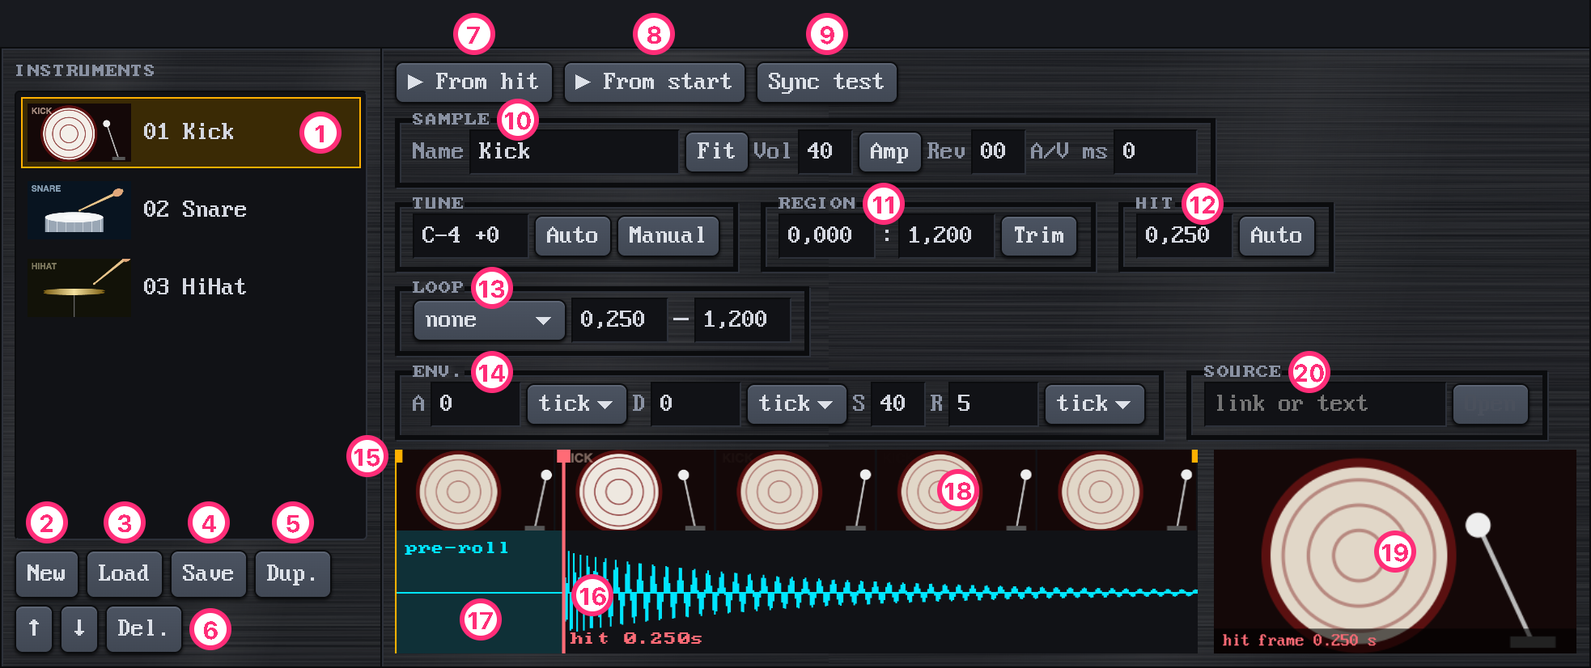
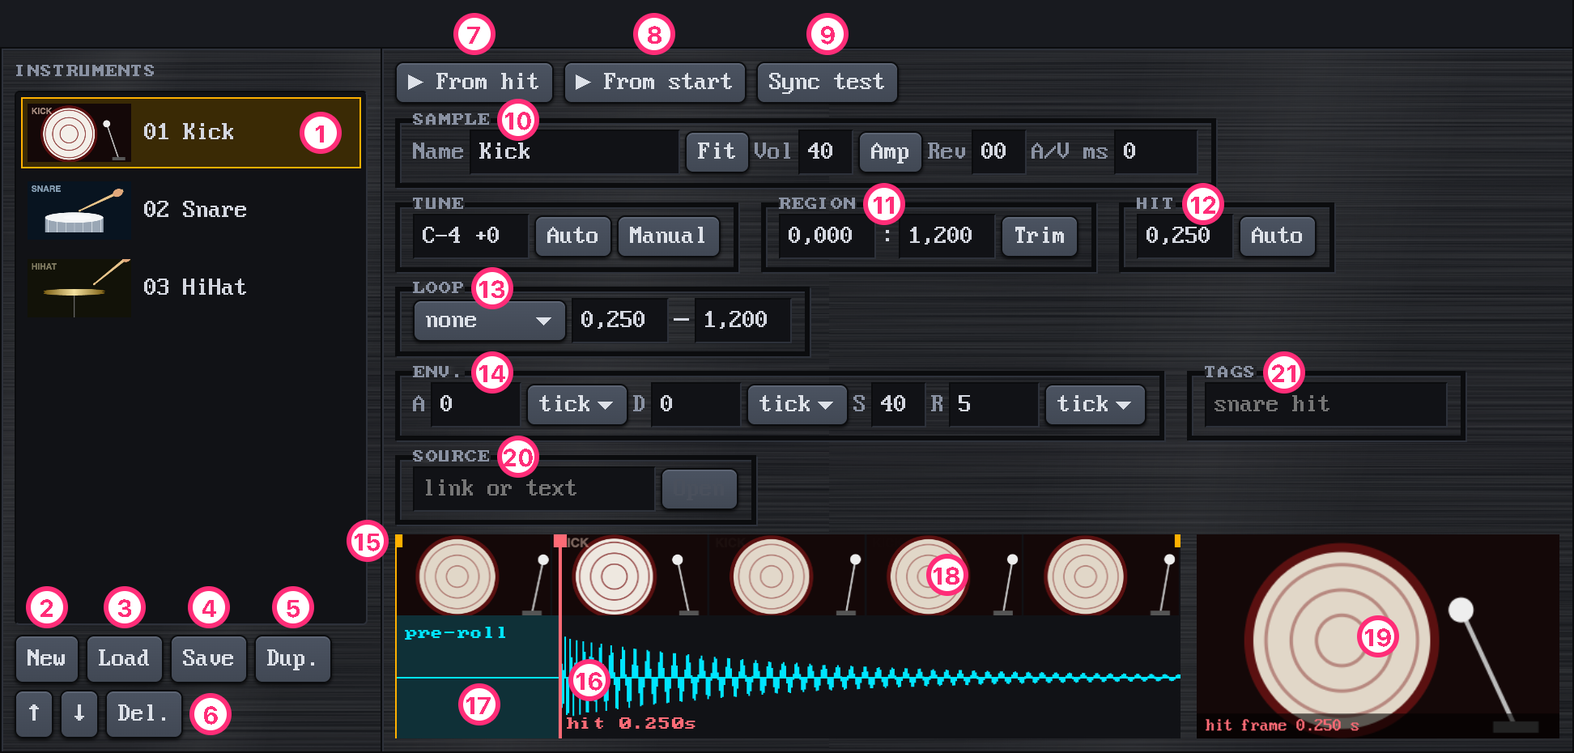
Tags: what an instrument's sound is, to find it by
TURD1 gets an optional tags= field (snare|hit|crash): lowercase letters
and digits, words joined by dashes. Tags in the instrument panel reads
them as people type them ('#Snare hit, crash'); MCP set_instrument takes
them, list_instruments shows them. Like the name, they stay when the
video is replaced. Nothing asks for them.

diff --git a/src/mcp.js b/src/mcp.js
@@ -16,6 +16,8 @@ const hexArg = (v, what) => typeof v === 'string' && /^[0-9A-Fa-f]{2}$/.test(v) 
 const patArg = v => { const p = hexArg(v, 'pattern'); return song.patterns[p] ? p : fail(`pattern ${hex2(p)} doesn't exist (there are 00–${hex2(song.patterns.length - 1)})`); };
 const rowArg = (v, pi, what = 'row') => { const r = hexArg(v, what), N = song.patterns[pi].rows.length; return r < N ? r : fail(`${what} ${hex2(r)} doesn't exist (pattern ${hex2(pi)}: 00–${hex2(N - 1)})`); };
 const chArg = v => Number.isInteger(v) && v >= 1 && v <= nch() ? v - 1 : fail(`channel must be an integer 1–${nch()} (the song has ${nch()} channels), got: ${JSON.stringify(v)}`);
+// tags: a list as given (checked with the instrument), or a text read as the panel reads it ('#snare hit')
+const checkedTags = v => Array.isArray(v) ? v.map(String) : PTFormat.tagsFrom(v ?? '');
 const instArg = v => { const i = hexArg(v, 'instrument'); return instruments[i] && i > 0 ? i : fail(`instrument ${hex2(i)} doesn't exist (there are 01–${hex2(instruments.length - 1)})`); };
 const fieldArg = (kind, v) => { try { return PTFormat.cellField(kind, v); } catch (e) { fail(e.message); } };
 const chList = v => v == null ? [...Array(nch()).keys()] : Array.isArray(v) && v.length ? v.map(chArg) : fail('channels must be a list of channels, e.g. [1, 3]');
@@ -67,7 +69,7 @@ const MCP_TOOLS = {
       'patterns:', ...song.patterns.map((P, k) => `  ${hex2(k)}: ${P.rows.length} rows, ${P.rows.reduce((a, r) => a + r.filter(c => !same(c, emptyCell())).length, 0)} filled cells`)].join('\n');
   },
   list_instruments() {
-    return instruments.slice(1).map((I, k) => `${hex2(k + 1)} ${I.name || '(unnamed)'} · base ${noteName(I.baseNote)} · volume ${hex2(I.vol)} · reverb ${hex2(I.reverb)} · region ${fmtTime(I.start)}–${fmtTime(I.end)} s · hit ${fmtTime(I.hit)} s · a=${envTxt(I.A)} d=${envTxt(I.D)} s=${hex2(I.S)} r=${envTxt(I.R)} · ${I.loop !== 'none' ? `${I.loop} loop ${fmtTime(I.loopStart)}–${fmtTime(I.loopEnd)} s` : 'no loop'} · amp ${I.amp.length ? PTFormat.ampStr(I.amp) + ' (start-end %, in order)' : 'none'} · focus ${I.focus.length ? PTFormat.focusStr(I.focus) : 'middle'}${I.source ? ` · source ${I.source}` : ''}`).join('\n') || 'no instruments';
+    return instruments.slice(1).map((I, k) => `${hex2(k + 1)} ${I.name || '(unnamed)'} · base ${noteName(I.baseNote)} · volume ${hex2(I.vol)} · reverb ${hex2(I.reverb)} · region ${fmtTime(I.start)}–${fmtTime(I.end)} s · hit ${fmtTime(I.hit)} s · a=${envTxt(I.A)} d=${envTxt(I.D)} s=${hex2(I.S)} r=${envTxt(I.R)} · ${I.loop !== 'none' ? `${I.loop} loop ${fmtTime(I.loopStart)}–${fmtTime(I.loopEnd)} s` : 'no loop'} · amp ${I.amp.length ? PTFormat.ampStr(I.amp) + ' (start-end %, in order)' : 'none'} · focus ${I.focus.length ? PTFormat.focusStr(I.focus) : 'middle'}${I.tags.length ? ` · tags ${I.tags.join(' ')}` : ''}${I.source ? ` · source ${I.source}` : ''}`).join('\n') || 'no instruments';
   },
   view_rows(a) {
     const pi = patArg(a.pattern), [r0, r1] = rowRange(a, pi), P = song.patterns[pi];
@@ -166,10 +168,10 @@ const MCP_TOOLS = {
   },
   set_instrument(a) {
     const idx = instArg(a.instrument), f = {}, map = { name: 'name', base_note: 'base', volume: 'vol', reverb: 'rev', attack: 'a', decay: 'd', sustain: 's', release: 'r', loop: 'loop', loop_start: 'ls', loop_end: 'le', fine: 'fine',
-      region_start: 'start', region_end: 'end', hit: 'hit', av_offset: 'av', focus: 'focus', source: 'src' };
+      region_start: 'start', region_end: 'end', hit: 'hit', av_offset: 'av', focus: 'focus', source: 'src', tags: 'tags' };
     for (const [k, key] of Object.entries(map)) if (k in a) {
       if (k === 'loop' && !PTFormat.LOOP_MODES.includes(a.loop)) fail(`loop must be none, forward or pingpong (got '${a.loop}')`);
-      try { f[{ name: 'name', base: 'baseNote', fine: 'fine', vol: 'vol', rev: 'reverb', a: 'A', d: 'D', s: 'S', r: 'R', loop: 'loop', ls: 'loopStart', le: 'loopEnd', start: 'start', end: 'end', hit: 'hit', av: 'avOffset', focus: 'focus', src: 'source' }[key]] = k === 'loop' ? a.loop : k === 'name' || k === 'source' ? String(a[k]).trim() : k === 'focus' && a.focus === '' ? [] : PTFormat.field(key, a[k]); }
+      try { f[{ name: 'name', base: 'baseNote', fine: 'fine', vol: 'vol', rev: 'reverb', a: 'A', d: 'D', s: 'S', r: 'R', loop: 'loop', ls: 'loopStart', le: 'loopEnd', start: 'start', end: 'end', hit: 'hit', av: 'avOffset', focus: 'focus', src: 'source', tags: 'tags' }[key]] = k === 'loop' ? a.loop : k === 'tags' ? checkedTags(a.tags) : k === 'name' || k === 'source' ? String(a[k]).trim() : k === 'focus' && a.focus === '' ? [] : PTFormat.field(key, a[k]); }
       catch (e) { fail(e.message.replace(/^TURD1\b[^:]*:\s*/, '')); } // drop the parser's line prefix, whatever its wording
     }
     if (!Object.keys(f).length) fail(`nothing to change (${Object.keys(map).join(', ')})`);
@@ -256,7 +258,7 @@ const MCP_TOOLS = {
     const i = instArg(a.instrument), focus = focusArg(a), f = await fileArg(a.file);
     const { fromMetadata, noSound } = await replaceVideo(i, f, progress, a.region ? { ...a.region, focus } : null), I = instruments[i];
     return done(true, `instrument ${hex2(i)}: video → ${f.name}; ` + (fromMetadata ? 'all its settings from the video\'s metadata (it was saved by PoopTracker)'
-      : `name, base note, finetune, volume, reverb, envelope and loop mode kept; region = ${a.region ? 'the piece' : 'the whole video'} (${I.start.toFixed(3)}–${I.end.toFixed(3)} s), hit found automatically at ${I.hit.toFixed(3)} s`) + (noSound ? NO_SOUND : ''));
+      : `name, tags, base note, finetune, volume, reverb, envelope and loop mode kept; region = ${a.region ? 'the piece' : 'the whole video'} (${I.start.toFixed(3)}–${I.end.toFixed(3)} s), hit found automatically at ${I.hit.toFixed(3)} s`) + (noSound ? NO_SOUND : ''));
   },
   async open_song(a) {
     const f = await fileArg(a.file), r = await opening(`MCP · opening ${f.name}`, p => readSong(f, p));

diff --git a/index.html b/index.html
@@ -257,7 +257,7 @@ header,.card,#statusBar,dialog,fieldset legend{background:var(--metalHair) fixed
   <section class="card" id="instCard">
     <h2>Instruments</h2>
     <div id="instList" class="well"></div>
-    <div class="btnRow"><button id="iNew" title="Add an empty instrument at the end of the list; Load then gives it a video">New</button><button id="bLoad" title="Load a video into the selected instrument: it keeps how it sounds (name, base note, finetune, volume, reverb, envelope, loop mode); region and hit are found in the new video. A video saved with Save brings all its own settings instead. Or drop the video on the instrument in the list.">Load</button><input id="file" type="file" accept="video/*" hidden>
+    <div class="btnRow"><button id="iNew" title="Add an empty instrument at the end of the list; Load then gives it a video">New</button><button id="bLoad" title="Load a video into the selected instrument: it keeps how it sounds (name, tags, base note, finetune, volume, reverb, envelope, loop mode); region and hit are found in the new video. A video saved with Save brings all its own settings instead. Or drop the video on the instrument in the list.">Load</button><input id="file" type="file" accept="video/*" hidden>
       <button id="bVidSave" title="Save the video with this instrument's settings (hit, loop, ADSR…) in its metadata; dropped on the tracker, it arrives as a ready instrument. The video isn't re-encoded. MP4/MOV only.">Save</button>
       <button id="bSplit" title="Duplicate: a new instrument from the same video with the same settings; then change its region">Dup.</button>
       <button id="iUp" title="Move up" aria-label="Move instrument up">↑</button><button id="iDown" title="Move down" aria-label="Move instrument down">↓</button>
@@ -296,6 +296,9 @@ header,.card,#statusBar,dialog,fieldset legend{background:var(--metalHair) fixed
       <label title="Decay: how long it then takes to fall from full volume to the sustain level (S). Its unit: tick follows the tempo (1 tick = 2.5/BPM s), ms stays fixed.">D<input id="iD" type="number" min="0" style="width:56px"></label><select id="iDu" aria-label="D unit"><option value="t">tick</option><option value="ms">ms</option></select>
       <label title="Sustain: the level the note stays at after the decay, until its key-off (===) or until you let go of the key. Hex 00–40 like Vol (40 = full).">S<input id="iS" maxlength="2" style="width:34px" spellcheck="false"></label>
       <label title="Release: how long the note takes to fade to silence after its key-off (===) or after you let go of the key. Its unit: tick follows the tempo (1 tick = 2.5/BPM s), ms stays fixed.">R<input id="iR" type="number" min="0" style="width:56px"></label><select id="iRu" aria-label="R unit"><option value="t">tick</option><option value="ms">ms</option></select>
+    </fieldset>
+    <fieldset><legend>Tags</legend>
+      <input id="iTags" style="width:150px" spellcheck="false" placeholder="snare hit" aria-label="Tags" title="What the sound is, to find it by: words split by spaces (snare hit crash; a # in front is fine). Lowercase letters and digits, words joined by dashes (big-room). They travel with the video">
     </fieldset>
     <fieldset><legend>Source</legend>
       <input id="iSrc" style="width:150px" spellcheck="false" placeholder="link or text" aria-label="Source" title="Where the video comes from: a link (a YouTube one with ?t= for the second the piece starts at) or any text. It travels with the video. A piece cut on the bench from a video downloaded with yt-dlp --embed-metadata gets it by itself"><button id="bSrc" title="Open the source link in a new tab">Open</button>
@@ -394,8 +397,8 @@ header,.card,#statusBar,dialog,fieldset legend{background:var(--metalHair) fixed
 {
   "imports": {
     "./src/autosave.js": "./src/autosave.js?v=a129a531b9",
-    "./src/core/commands.js": "./src/core/commands.js?v=ec4f8d806a",
-    "./src/core/instrument.js": "./src/core/instrument.js?v=ed27e28192",
+    "./src/core/commands.js": "./src/core/commands.js?v=34bff0abfb",
+    "./src/core/instrument.js": "./src/core/instrument.js?v=46b286c212",
     "./src/core/song.js": "./src/core/song.js?v=6eaf9b5a3d",
     "./src/demo.js": "./src/demo.js?v=7118276168",
     "./src/engine/audio.js": "./src/engine/audio.js?v=67c45774a2",
@@ -404,16 +407,16 @@ header,.card,#statusBar,dialog,fieldset legend{background:var(--metalHair) fixed
     "./src/frames.js": "./src/frames.js?v=a0e990fd67",
     "./src/io.js": "./src/io.js?v=8d4397fa56",
     "./src/main.js": "./src/main.js?v=722ebfda5f",
-    "./src/mcp.js": "./src/mcp.js?v=6b338ed893",
+    "./src/mcp.js": "./src/mcp.js?v=f15126e74b",
     "./src/midi.js": "./src/midi.js?v=4aea5cf9e5",
     "./src/mp4.js": "./src/mp4.js?v=d5ff6a34c9",
     "./src/mp4cut.js": "./src/mp4cut.js?v=e114c82bfe",
-    "./src/ptformat.js": "./src/ptformat.js?v=1baee3c7b5",
+    "./src/ptformat.js": "./src/ptformat.js?v=dc89fede4b",
     "./src/ui/bench.js": "./src/ui/bench.js?v=ada1cb79cf",
     "./src/ui/bug.js": "./src/ui/bug.js?v=d6d26b5cd5",
     "./src/ui/common.js": "./src/ui/common.js?v=df7abd3b77",
     "./src/ui/files.js": "./src/ui/files.js?v=1926859382",
-    "./src/ui/instrumentPanel.js": "./src/ui/instrumentPanel.js?v=ca39a901e6",
+    "./src/ui/instrumentPanel.js": "./src/ui/instrumentPanel.js?v=5ec77526ba",
     "./src/ui/opening.js": "./src/ui/opening.js?v=8ad2e10dba",
     "./src/ui/output.js": "./src/ui/output.js?v=be938372ad",
     "./src/ui/palette.js": "./src/ui/palette.js?v=d8faf9d440",

diff --git a/src/ptformat.js b/src/ptformat.js
@@ -33,6 +33,10 @@ const focusStr = keys => keys.map(k => `${t3(k.t)}:${k.x.toFixed(3)},${k.y.toFix
 // It changes the sample itself (the video file stays as it is): 200-200 twice is not 400-400 once.
 const MAX_AMP = 200, MAX_AMP_STEPS = 100;
 const MAX_SOURCE = 500;
+// tags: what the sound is, to find it by (snare, hit, crash): lowercase letters and digits, words joined by dashes,
+// written joined by '|'. tagsFrom reads them as people type them: '#Snare #hit, crash' → ['snare', 'hit', 'crash']
+const MAX_TAGS = 16, MAX_TAG = 24, TAG = /^[\p{Ll}\p{Lo}\p{N}]+(-[\p{Ll}\p{Lo}\p{N}]+)*$/u;
+const tagsFrom = text => [...new Set(String(text).split(/[\s,|]+/).map(t => t.replace(/^#+/, '').toLowerCase()).filter(Boolean))];
 const ampStr = steps => steps.map(s => `${s.a}-${s.b}`).join('|');
 
 function format(I, video) {
@@ -44,6 +48,7 @@ function format(I, video) {
     'loop=' + I.loop, 'ls=' + t3(I.loopStart), 'le=' + t3(I.loopEnd), 'av=' + Math.round(I.avOffset));
   if (I.amp?.length) f.push('amp=' + ampStr(I.amp));
   if (I.focus?.length) f.push('focus=' + focusStr(I.focus));
+  if (I.tags?.length) f.push('tags=' + I.tags.join('|'));
   if (I.source) f.push('src=' + esc(I.source));
   return f.join(';');
 }
@@ -89,9 +94,10 @@ const PARSE = {
   focus,
   // where the video comes from: a link (a YouTube one with the second the piece starts at) or any text
   src: (k, v) => unesc(v),
+  tags: (k, v) => { const t = v.split('|').map(s => s.trim()), e = checkTags(t); if (e) throw new Error(`${VERSION} line: ${e}`); return t; },
 };
 const KEYS = { name: 'name', video: 'video', start: 'start', end: 'end', hit: 'hit', base: 'baseNote', fine: 'fine', vol: 'vol', rev: 'reverb',
-  a: 'A', d: 'D', s: 'S', r: 'R', loop: 'loop', ls: 'loopStart', le: 'loopEnd', av: 'avOffset', amp: 'amp', focus: 'focus', src: 'source' };
+  a: 'A', d: 'D', s: 'S', r: 'R', loop: 'loop', ls: 'loopStart', le: 'loopEnd', av: 'avOffset', amp: 'amp', focus: 'focus', src: 'source', tags: 'tags' };
 const REQUIRED = ['name', 'start', 'end', 'hit', 'base'];
 
 function parse(line) {
@@ -108,7 +114,7 @@ function parse(line) {
   }
   for (const k of REQUIRED) if (!(k in kv)) throw new Error(`${VERSION} line: field '${k}' is missing`);
   const I = { fine: 0, vol: 64, reverb: 0, A: { v: 0, u: 't' }, D: { v: 0, u: 't' }, S: 64, R: { v: 0, u: 't' }, loop: 'none',
-    loopStart: kv.hit, loopEnd: kv.end, avOffset: 0, amp: [], focus: [], source: '' };
+    loopStart: kv.hit, loopEnd: kv.end, avOffset: 0, amp: [], focus: [], source: '', tags: [] };
   for (const k in kv) I[KEYS[k]] = kv[k];
   const e = checkInstrument(I);
   if (e) throw new Error(`${VERSION} line: ${e}`);
@@ -139,12 +145,21 @@ function checkInstrument(I) {
   if (!Number.isInteger(I.avOffset)) return `A/V offset '${I.avOffset}' is invalid (milliseconds, integer)`;
   const ae = checkAmp(I.amp); if (ae) return ae;
   const fe = checkFocus(I.focus); if (fe) return fe;
+  const te = checkTags(I.tags); if (te) return te;
   if (typeof I.source !== 'string' || I.source.length > MAX_SOURCE || /[\r\n]/.test(I.source)) return `source must be at most ${MAX_SOURCE} characters, on one line`;
   if (I.start >= I.end) return `region start (${t3(I.start)}) must be before region end (${t3(I.end)})`;
   if (I.hit < I.start || I.hit > I.end) return `hit point (${t3(I.hit)}) must be inside the region (${t3(I.start)}–${t3(I.end)})`;
   if (I.loop !== 'none' && (I.loopStart < I.start || I.loopEnd > I.end || I.loopStart >= I.loopEnd))
     return `loop (${t3(I.loopStart)}–${t3(I.loopEnd)}) must be inside the region, with loop start before loop end (region ${t3(I.start)}–${t3(I.end)})`;
   if (I.loop !== 'none' && I.loopStart < I.hit) return `loop start (${t3(I.loopStart)}) can't be before the hit point (${t3(I.hit)})`;
+  return null;
+}
+function checkTags(tags) {
+  if (!Array.isArray(tags)) return 'tags must be a list of words';
+  if (tags.length > MAX_TAGS) return `there are ${tags.length} tags; at most ${MAX_TAGS}`;
+  for (const t of tags)
+    if (typeof t !== 'string' || t.length > MAX_TAG || !TAG.test(t)) return `tag '${t}' is invalid (lowercase letters and digits, words joined by dashes, at most ${MAX_TAG} characters, e.g. snare or big-room)`;
+  if (new Set(tags).size !== tags.length) return 'a tag is written twice';
   return null;
 }
 function checkAmp(steps) {
@@ -487,7 +502,7 @@ function mp4WriteTag(b, value) {
   return out;
 }
 
-export const PTFormat = { VERSION, LOOP_MODES, format, focusStr, ampStr, MAX_AMP, MAX_AMP_STEPS, parse, noteStr, noteNum, ENV_MAX, KEYOFF, MAX_CHANNELS, FXCH, FX_ALLOWED, E_ALLOWED,
+export const PTFormat = { VERSION, LOOP_MODES, format, tagsFrom, checkTags, focusStr, ampStr, MAX_AMP, MAX_AMP_STEPS, parse, noteStr, noteNum, ENV_MAX, KEYOFF, MAX_CHANNELS, FXCH, FX_ALLOWED, E_ALLOWED,
   checkInstrument, checkFocus, checkCell, checkSong, checkOrder, checkRows, checkChannel, formatSong, parseSong, zipStore, unzip, crc32,
   cellField, cellStr, mp4ReadTag, mp4WriteTag, field: (k, v) => PARSE[k](k, String(v).trim()) };
 export default PTFormat;

diff --git a/src/ui/instrumentPanel.js b/src/ui/instrumentPanel.js
@@ -1,5 +1,6 @@
 // The instrument panel: the list of instruments, their settings and the waveform editor.
 // Sliders and waveform drags preview live and become ONE command when released.
+import PTFormat from '../ptformat.js';
 import { clamp, hex2, noteName, round3, copy } from '../util.js';
 import { song, instruments } from '../core/song.js';
 import { makeInstrument, videoFrame, frameAt, focusAt, hitPos, sliceRegion, tickDur, detectHit, detectPitch, tuneFor, noteOfHz, fitFor, loops } from '../core/instrument.js';
@@ -28,7 +29,7 @@ export function selectInst(idx) {
   ['A', 'D', 'R'].forEach(p => { $('#i' + p).value = I[p].v; $('#i' + p + 'u').value = I[p].u; }); $('#iS').value = hex2(I.S);
   $('#iStart').value = I.start.toFixed(3); $('#iEnd').value = I.end.toFixed(3);
   $('#iHit').value = I.hit.toFixed(3); $('#iAV').value = I.avOffset;
-  $('#iSrc').value = I.source; $('#bSrc').disabled = !isLink(I.source);
+  $('#iTags').value = I.tags.join(' '); $('#iSrc').value = I.source; $('#bSrc').disabled = !isLink(I.source);
   $('#iLoop').value = I.loop; $('#iLS').disabled = $('#iLE').disabled = I.loop === 'none'; $('#iLS').value = I.loopStart.toFixed(3); $('#iLE').value = I.loopEnd.toFixed(3);
   refreshInstList(); drawWave(null);
 }
@@ -138,6 +139,7 @@ $('#iEnd').onchange = e => instCmd({ end: round3(num(e.target)) }, 'region end')
 $('#iHit').onchange = e => instCmd({ hit: round3(num(e.target)) }, 'hit point');
 $('#iAV').onchange = e => instCmd({ avOffset: num(e.target) }, 'A/V offset');
 const isLink = s => /^https?:\/\/\S+$/.test(s);
+$('#iTags').onchange = e => instCmd({ tags: PTFormat.tagsFrom(e.target.value) }, 'tags');
 $('#iSrc').onchange = e => instCmd({ source: e.target.value.trim() }, 'source');
 $('#bSrc').onclick = () => { const I = curInst(); if (I && isLink(I.source)) window.open(I.source, '_blank', 'noopener'); };
 $('#iLoop').onchange = e => {

diff --git a/src/core/commands.js b/src/core/commands.js
@@ -100,12 +100,12 @@ export function setPatternLength(idx, len) {
   return { label: `pattern ${hex2(idx)} length ${len}`, scope: 'patterns', P, apply: () => { P.rows = nu; }, revert: () => { P.rows = old; } };
 }
 
-export const INST_KEYS = ['name', 'start', 'end', 'hit', 'baseNote', 'fine', 'vol', 'reverb', 'A', 'D', 'S', 'R', 'loop', 'loopStart', 'loopEnd', 'avOffset', 'amp', 'focus', 'source'];
+export const INST_KEYS = ['name', 'start', 'end', 'hit', 'baseNote', 'fine', 'vol', 'reverb', 'A', 'D', 'S', 'R', 'loop', 'loopStart', 'loopEnd', 'avOffset', 'amp', 'focus', 'source', 'tags'];
 export const pick = (o, keys) => Object.fromEntries(keys.map(k => [k, copy(o[k])]));
-// What an instrument keeps when its video is replaced: how it sounds. The rest are places in the old video
-// (region, hit, loop points, focus, A/V offset) and mean nothing in another one; amp changed the old sample, not this one;
-// the source is where the old video came from.
-export const SOUND_KEYS = ['name', 'baseNote', 'fine', 'vol', 'reverb', 'A', 'D', 'S', 'R', 'loop'];
+// What an instrument keeps when its video is replaced: what it is (name, tags) and how it sounds. The rest are places in
+// the old video (region, hit, loop points, focus, A/V offset) and mean nothing in another one; amp changed the old
+// sample, not this one; the source is where the old video came from.
+export const SOUND_KEYS = ['name', 'tags', 'baseNote', 'fine', 'vol', 'reverb', 'A', 'D', 'S', 'R', 'loop'];
 // another video for an instrument. Without place, it keeps how it sounds and the places are found again as when a
 // video is loaded (the region is the whole video, the hit is detected). place is a whole instrument line: a video
 // saved with its settings brings all of them (its loop mode too); a caller that keeps the sound puts it in place.

diff --git a/test/commands.test.js b/test/commands.test.js
@@ -118,7 +118,7 @@ test('the focus is an instrument setting: set, checked and undone like the other
 });
 
 test('a replaced video keeps how the instrument sounds; region and hit are found again in it', () => {
-  C.exec(() => C.setInstrument(1, { name: 'kick', baseNote: 50, vol: 32, R: { v: 9, u: 't' }, start: 0.2, end: 1.8, hit: 1.5, loopStart: 1.6, loopEnd: 1.8, loop: 'forward', focus: [{ t: 0, x: 0.2, y: 0.3 }], avOffset: 40, source: 'https://example.com/old' }));
+  C.exec(() => C.setInstrument(1, { name: 'kick', baseNote: 50, vol: 32, R: { v: 9, u: 't' }, start: 0.2, end: 1.8, hit: 1.5, loopStart: 1.6, loopEnd: 1.8, loop: 'forward', focus: [{ t: 0, x: 0.2, y: 0.3 }], avOffset: 40, source: 'https://example.com/old', tags: ['kick'] }));
   const other = testInstrument({ dur: 3 }), d = other.video.buffer.getChannelData(0), sr = other.video.buffer.sampleRate;
   for (let i = Math.round(0.7 * sr); i < Math.round(0.8 * sr); i++) d[i] = 0.8; // a hit at 0.700 s
   C.exec(() => C.setInstrumentVideo(1, other.video));
@@ -127,6 +127,7 @@ test('a replaced video keeps how the instrument sounds; region and hit are found
   assert.deepEqual([I.name, I.baseNote, I.vol, I.R, I.loop], ['kick', 50, 32, { v: 9, u: 't' }, 'forward']);
   assert.deepEqual([I.start, I.end, I.hit, I.loopStart, I.loopEnd, I.avOffset, I.focus], [0, 3, 0.7, 0.7, 3, 0, []]);
   assert.equal(I.source, ''); // the old video's source isn't this one's
+  assert.deepEqual(I.tags, ['kick']); // what the instrument is stays
   C.undo();
   assert.deepEqual([I.start, I.end, I.hit, I.loopStart, I.avOffset, I.source], [0.2, 1.8, 1.5, 1.6, 40, 'https://example.com/old']);
   C.exec(() => C.setInstrumentVideo(1, other.video, null, undefined, 'https://example.com/new'));

diff --git a/test/format.test.js b/test/format.test.js
@@ -140,3 +140,15 @@ test('src: where the video comes from, written only when there is one; a link ke
   assert.ok(!PTFormat.format(PTFormat.parse(LINE)).includes('src='));
   assert.equal(PTFormat.checkInstrument({ ...I, source: 'a\nb' }), 'source must be at most 500 characters, on one line');
 });
+
+test('tags: optional, written joined by |, checked; tagsFrom reads them as people type them', () => {
+  assert.deepEqual(PTFormat.parse(LINE).tags, []);
+  assert.ok(!PTFormat.format(PTFormat.parse(LINE)).includes('tags='));
+  const I = PTFormat.parse(LINE + ';tags=snare|hit|büyük-oda');
+  assert.deepEqual(I.tags, ['snare', 'hit', 'büyük-oda']);
+  assert.deepEqual(PTFormat.parse(PTFormat.format(I)).tags, I.tags);
+  assert.throws(() => PTFormat.parse(LINE + ';tags=Snare'), /^Error: TURD1 line: tag 'Snare' is invalid \(lowercase/);
+  assert.throws(() => PTFormat.parse(LINE + ';tags=hit|hit'), /a tag is written twice/);
+  assert.deepEqual(PTFormat.tagsFrom('#Snare #hit, crash  big-room|hit'), ['snare', 'hit', 'crash', 'big-room']);
+  assert.deepEqual(PTFormat.tagsFrom('  '), []);
+});

diff --git a/src/core/instrument.js b/src/core/instrument.js
@@ -26,8 +26,8 @@ export const loops = I => I.loop !== 'none' && I.loopEnd > I.loopStart;
 export const videoFrame = (V, t) => V.frames[clamp(Math.floor(t * V.fps), 0, V.frames.length - 1)];
 export function makeInstrument(V, o) {
   const I = Object.assign({ name: '', start: 0, end: V.dur, hit: 0, baseNote: 48, fine: 0, vol: 64, reverb: 0,
-    A: { v: 0, u: 't' }, D: { v: 0, u: 't' }, S: 64, R: { v: 5, u: 't' }, loop: 'none', loopStart: 0, loopEnd: V.dur, avOffset: 0, amp: [], focus: [], source: '' }, o);
-  I.video = V; I.A = { ...I.A }; I.D = { ...I.D }; I.R = { ...I.R }; I.amp = I.amp.map(s => ({ ...s })); I.focus = I.focus.map(k => ({ ...k }));
+    A: { v: 0, u: 't' }, D: { v: 0, u: 't' }, S: 64, R: { v: 5, u: 't' }, loop: 'none', loopStart: 0, loopEnd: V.dur, avOffset: 0, amp: [], focus: [], source: '', tags: [] }, o);
+  I.video = V; I.A = { ...I.A }; I.D = { ...I.D }; I.R = { ...I.R }; I.amp = I.amp.map(s => ({ ...s })); I.focus = I.focus.map(k => ({ ...k })); I.tags = [...I.tags];
   sliceRegion(I);
   return I;
 }

diff --git a/docs/MANUAL.tr.md b/docs/MANUAL.tr.md
@@ -243,7 +243,7 @@ Bir enstrüman en fazla **8 saniye** olabilir. Daha uzun bir videonun bir parça
 |---|---------|----------|
 | 1 | Enstrüman listesi | Seçmek için bir enstrümana tıkla (ya da Shift+↑↓). Nota tuşları seçili olanı çalar. Buradaki bir enstrümanın üstüne video bırakırsan videosu değişir. |
 | 2 | **New** | Listenin sonuna, video yüklenecek boş bir enstrüman ekler |
-| 3 | **Load** | **Seçili** enstrümana bir video verir, sesini korur (ad, taban nota, ince akort, ses, reverb, zarf, döngü modu); bölge ve vuruş yeni videoda yeniden bulunur. **Save** ile kaydedilmiş bir video ise kendi ayarlarının hepsini getirir. Hiç enstrüman yoksa Load yeni bir tane yapar. |
+| 3 | **Load** | **Seçili** enstrümana bir video verir, sesini korur (ad, etiketler, taban nota, ince akort, ses, reverb, zarf, döngü modu); bölge ve vuruş yeni videoda yeniden bulunur. **Save** ile kaydedilmiş bir video ise kendi ayarlarının hepsini getirir. Hiç enstrüman yoksa Load yeni bir tane yapar. |
 | 4 | **Save** | Videoyu, bu enstrümanın ayarları metadata'sında olacak şekilde kaydeder. Yeniden encode edilmez. Sadece MP4/MOV. |
 | 5 | **Dup.** | Aynı videodan, aynı ayarlarla yeni bir enstrüman. Aynı klipten başka bir bölge almak için kullan. |
 | 6 | **↑ ↓ Del.** | Enstrümanı listede yukarı ya da aşağı taşır / siler (sadece hiçbir pattern kullanmıyorsa) |
@@ -261,6 +261,7 @@ Bir enstrüman en fazla **8 saniye** olabilir. Daha uzun bir videonun bir parça
 | 18 | Film şeridi ve dalga formu | Bölgenin kareleri ve sesi. Koyu kısımlar bölgenin dışında kalır. |
 | 19 | Vuruş karesi | Vuruş anındaki kare. Tıklayınca **odak** belirlenir: bir kare videoyu kırparken görünür tuttuğu nokta. Alt+tıklama odağı ortaya döndürür. |
 | 20 | Source | Bkz. [aşağısı](#enstruman-ayarlari) |
+| 21 | Tags | |
 
 <a id="enstruman-ayarlari"></a>
 ### Enstrüman ayarları
@@ -308,6 +309,11 @@ gider, video da onunla ileri geri oynar.
 A, D ve R'nin her birinin bir birimi var. **tick** tempoyu takip eder. **ms** sabit kalır.
 
 Görüntü sesi takip eder: karenin parlaklığı ses × zarftır.
+
+**Tags:** sesin ne olduğu, onu bulmak için: `snare hit crash`. Boşluk ya da virgülle ayırarak yaz; başlarında `#`
+olabilir, büyük harfler küçülür. Bir etiket küçük harf ve rakamlardan oluşur, kelimeler tireyle birleşir
+(`buyuk-oda`). İsteğe bağlıdır ve enstrümanın adı gibi onunla birlikte saklanır (satırında `tags=snare|hit|crash`):
+başka bir video (Load, Repl.) etiketleri korur.
 
 **Source:** videonun nereden geldiği: bir link ya da herhangi bir metin (`own recording`). Enstrümanla birlikte
 saklanır (satırında `src=`), yani video nereye giderse o da gider: şarkıya, **Save** ile de videonun metadata'sına.

diff --git a/docs/MANUAL.md b/docs/MANUAL.md
@@ -232,7 +232,7 @@ An instrument is at most **8 seconds** long. To use part of a longer video, cut 
 |---|---------|--------------|
 | 1 | Instrument list | Click an instrument to select it (or use Shift+↑↓). The selected one is what the note keys play. Drop a video on an instrument here to replace its video. |
 | 2 | **New** | Adds an empty instrument at the end of the list, to load a video into |
-| 3 | **Load** | Gives the **selected** instrument a video and keeps how it sounds (name, base note, finetune, volume, reverb, envelope, loop mode); the region and hit are found again in the new video. A video saved with **Save** brings all its own settings instead. With no instrument, Load makes a new one. |
+| 3 | **Load** | Gives the **selected** instrument a video and keeps how it sounds (name, tags, base note, finetune, volume, reverb, envelope, loop mode); the region and hit are found again in the new video. A video saved with **Save** brings all its own settings instead. With no instrument, Load makes a new one. |
 | 4 | **Save** | Saves the video with this instrument's settings in its metadata. It isn't re-encoded. MP4/MOV only. |
 | 5 | **Dup.** | A new instrument from the same video with the same settings. Use it to take another region of the same clip. |
 | 6 | **↑ ↓ Del.** | Move the instrument up or down in the list / delete it (only if no pattern uses it) |
@@ -250,6 +250,7 @@ An instrument is at most **8 seconds** long. To use part of a longer video, cut 
 | 18 | Filmstrip and waveform | The frames and the sound of the region. Dark parts are outside the region. |
 | 19 | Hit frame | The frame at the hit. Click it to set the **focus**, the point a tile keeps in view when it crops the video. Alt+click resets the focus to the middle. |
 | 20 | Source | See [below](#instrument-settings) |
+| 21 | Tags | |
 
 ### Instrument settings
 
@@ -296,6 +297,11 @@ video goes back and forth with it.
 A, D and R each have a unit. **tick** follows the tempo. **ms** stays fixed.
 
 The picture follows the sound: the tile's brightness is the volume × the envelope.
+
+**Tags:** what the sound is, to find it by: `snare hit crash`. Type them split by spaces or commas; a `#` in front is
+fine and capitals become lowercase. A tag is lowercase letters and digits, words joined by dashes (`big-room`). They
+are optional, and kept with the instrument like its name (`tags=snare|hit|crash` in its line): another video (Load,
+Repl.) keeps them.
 
 **Source:** where the video comes from: a link, or any text (`own recording`). It is kept with the instrument (`src=`
 in its line), so it goes wherever the video goes: into the song, and into the video's metadata with **Save**. **Open**

diff --git a/CHANGELOG.md b/CHANGELOG.md
@@ -15,6 +15,8 @@ The first public version.
   panel, MCP `set_instrument source`). A piece cut on the bench or by MCP from a video that carries its link (yt-dlp
   `--embed-metadata`: the MP4 comment, Matroska's PURL/COMMENT) gets it by itself, a YouTube one with `t=` set to the
   second the piece starts at. An older PoopTracker refuses a line with `src=` (unknown field).
+- Tags: what an instrument's sound is, to find it by (`tags=snare|hit|crash`; Tags in the instrument panel, MCP
+  `set_instrument tags`). Optional; kept like the name when the video is replaced.
 - Pre-roll uses only free time: a clip never starts before the channel's previous note has gone silent.
 - MCP server: an AI can read and edit the open song, load videos and save files.
 - Backspace clears like Del, unlike FT2 (where it deletes the note above and pulls the channel up): it is the Mac's
